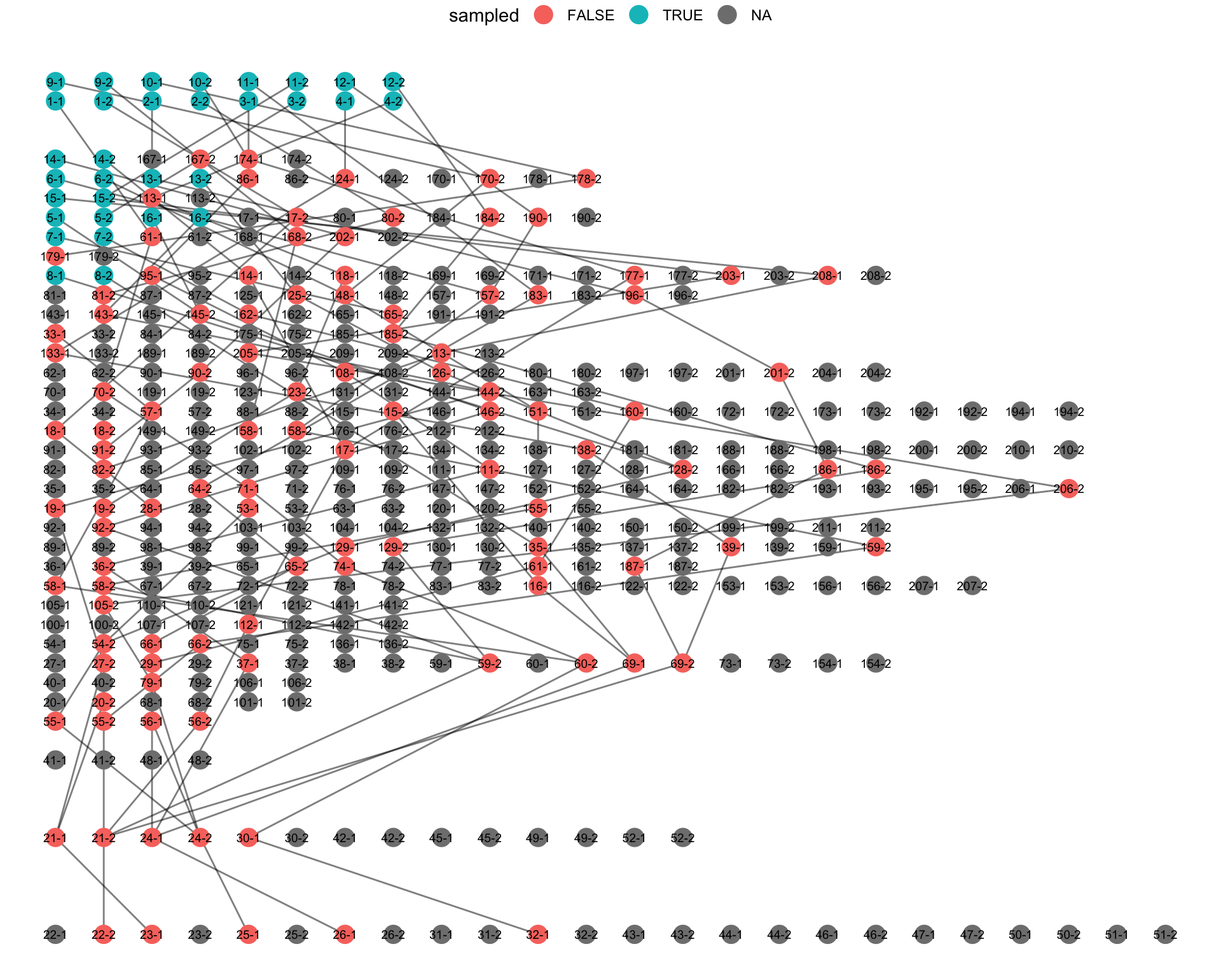
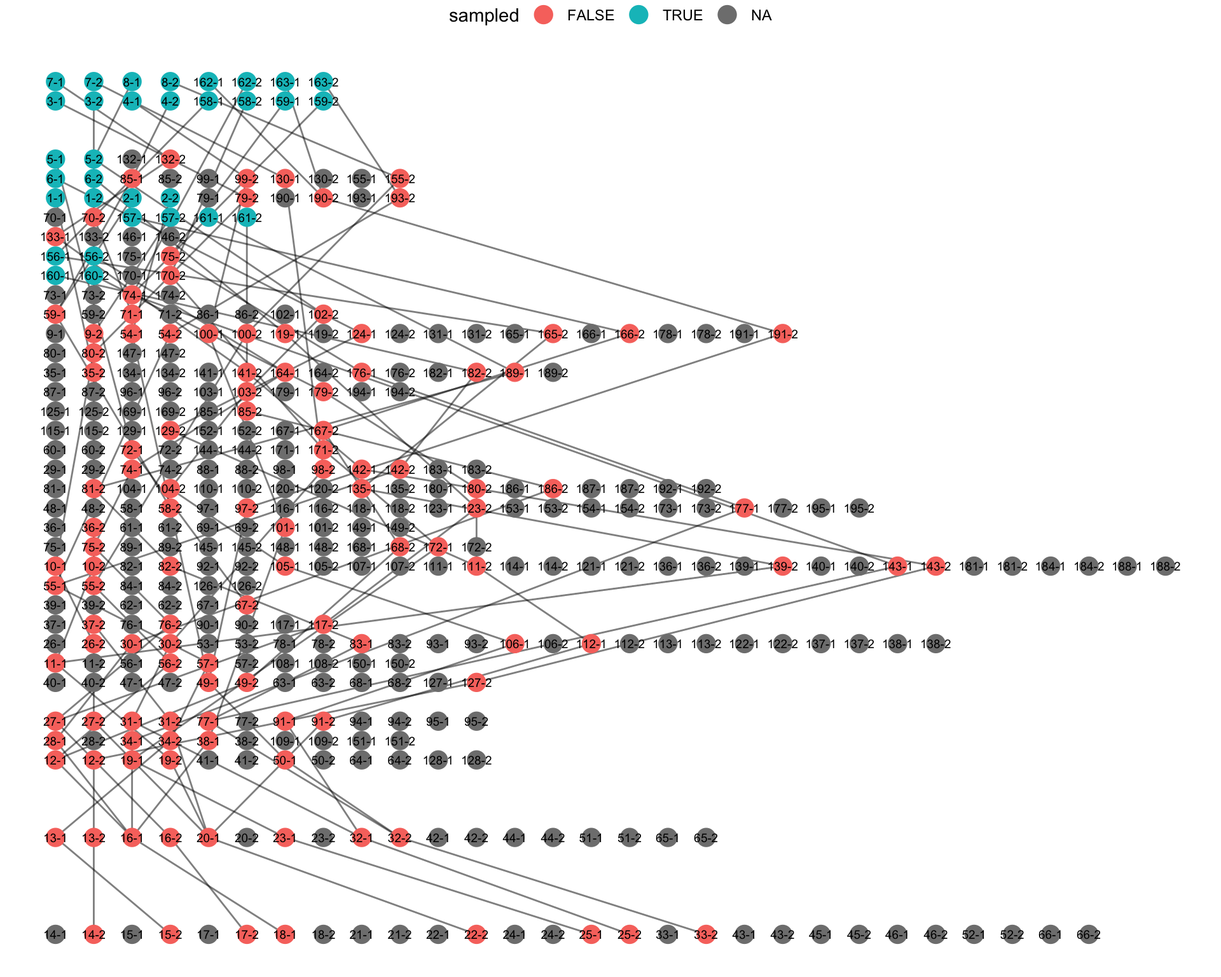
:bookmark: Bump version to v0.7.1 [ci skip]

Changed region(s): [[0.0312, 0.0625, 0.9688, 0.9688]]

diff --git a/docs/articles/kinship.html b/docs/articles/kinship.html
@@ -37,7 +37,7 @@
       </button>
       <span class="navbar-brand">
         <a class="navbar-link" href="../index.html">tekkamaki</a>
-        <span class="version label label-default" data-toggle="tooltip" data-placement="bottom" title="Released version">0.7.0</span>
+        <span class="version label label-default" data-toggle="tooltip" data-placement="bottom" title="Released version">0.7.1</span>
       </span>
     </div>
 
@@ -108,53 +108,53 @@
 <span id="cb1-5"><a href="#cb1-5"></a><span class="co">#&gt; # A tibble: 1 x 2</span></span>
 <span id="cb1-6"><a href="#cb1-6"></a><span class="co">#&gt;   sample_family        demography          </span></span>
 <span id="cb1-7"><a href="#cb1-7"></a><span class="co">#&gt;   &lt;list&gt;               &lt;list&gt;              </span></span>
-<span id="cb1-8"><a href="#cb1-8"></a><span class="co">#&gt; 1 &lt;tibble [7,479 × 6]&gt; &lt;tibble [4,483 × 5]&gt;</span></span>
+<span id="cb1-8"><a href="#cb1-8"></a><span class="co">#&gt; 1 &lt;tibble [7,485 × 6]&gt; &lt;tibble [4,601 × 5]&gt;</span></span>
 <span id="cb1-9"><a href="#cb1-9"></a>sample_family =<span class="st"> </span>result<span class="op">$</span>sample_family[[1L]] <span class="op">%&gt;%</span><span class="st"> </span><span class="kw"><a href="https://www.rdocumentation.org/packages/base/topics/print">print</a></span>()</span>
-<span id="cb1-10"><a href="#cb1-10"></a><span class="co">#&gt; # A tibble: 7,479 x 6</span></span>
+<span id="cb1-10"><a href="#cb1-10"></a><span class="co">#&gt; # A tibble: 7,485 x 6</span></span>
 <span id="cb1-11"><a href="#cb1-11"></a><span class="co">#&gt;       id father_id mother_id birth_year location capture_year</span></span>
 <span id="cb1-12"><a href="#cb1-12"></a><span class="co">#&gt;    &lt;int&gt;     &lt;int&gt;     &lt;int&gt;      &lt;int&gt;    &lt;int&gt;        &lt;int&gt;</span></span>
-<span id="cb1-13"><a href="#cb1-13"></a><span class="co">#&gt;  1   134         0         0         -4        0           NA</span></span>
-<span id="cb1-14"><a href="#cb1-14"></a><span class="co">#&gt;  2   135         0         0         -4        0           NA</span></span>
-<span id="cb1-15"><a href="#cb1-15"></a><span class="co">#&gt;  3   133       134       135          1        0           NA</span></span>
-<span id="cb1-16"><a href="#cb1-16"></a><span class="co">#&gt;  4   137         0         0         -4        0           NA</span></span>
-<span id="cb1-17"><a href="#cb1-17"></a><span class="co">#&gt;  5   138         0         0         -4        0           NA</span></span>
-<span id="cb1-18"><a href="#cb1-18"></a><span class="co">#&gt;  6   136       137       138          1        1           NA</span></span>
-<span id="cb1-19"><a href="#cb1-19"></a><span class="co">#&gt;  7   132       133       136          5        1           NA</span></span>
-<span id="cb1-20"><a href="#cb1-20"></a><span class="co">#&gt;  8   141         0         0         -4        0           NA</span></span>
-<span id="cb1-21"><a href="#cb1-21"></a><span class="co">#&gt;  9   142         0         0         -4        0           NA</span></span>
-<span id="cb1-22"><a href="#cb1-22"></a><span class="co">#&gt; 10   140       141       142          1        0           NA</span></span>
-<span id="cb1-23"><a href="#cb1-23"></a><span class="co">#&gt; # … with 7,469 more rows</span></span></code></pre></div>
+<span id="cb1-13"><a href="#cb1-13"></a><span class="co">#&gt;  1    74         0         0         -4       NA           NA</span></span>
+<span id="cb1-14"><a href="#cb1-14"></a><span class="co">#&gt;  2    75         0         0         -4       NA           NA</span></span>
+<span id="cb1-15"><a href="#cb1-15"></a><span class="co">#&gt;  3    73        74        75          1       NA           NA</span></span>
+<span id="cb1-16"><a href="#cb1-16"></a><span class="co">#&gt;  4    77         0         0         -4       NA           NA</span></span>
+<span id="cb1-17"><a href="#cb1-17"></a><span class="co">#&gt;  5    78         0         0         -4       NA           NA</span></span>
+<span id="cb1-18"><a href="#cb1-18"></a><span class="co">#&gt;  6    76        77        78          1       NA           NA</span></span>
+<span id="cb1-19"><a href="#cb1-19"></a><span class="co">#&gt;  7    72        73        76          8       NA           NA</span></span>
+<span id="cb1-20"><a href="#cb1-20"></a><span class="co">#&gt;  8    81         0         0         -4       NA           NA</span></span>
+<span id="cb1-21"><a href="#cb1-21"></a><span class="co">#&gt;  9    82         0         0         -4       NA           NA</span></span>
+<span id="cb1-22"><a href="#cb1-22"></a><span class="co">#&gt; 10    80        81        82          1       NA           NA</span></span>
+<span id="cb1-23"><a href="#cb1-23"></a><span class="co">#&gt; # … with 7,475 more rows</span></span></code></pre></div>
 <p>Extract kinship with degree≤4:</p>
 <div class="sourceCode" id="cb2"><pre class="sourceCode r"><code class="sourceCode r"><span id="cb2-1"><a href="#cb2-1"></a>kinship =<span class="st"> </span><span class="kw"><a href="../reference/kinship.html">find_kinship</a></span>(sample_family, 4L) <span class="op">%&gt;%</span><span class="st"> </span><span class="kw"><a href="https://www.rdocumentation.org/packages/base/topics/print">print</a></span>()</span>
-<span id="cb2-2"><a href="#cb2-2"></a><span class="co">#&gt; # A tibble: 194 x 5</span></span>
+<span id="cb2-2"><a href="#cb2-2"></a><span class="co">#&gt; # A tibble: 133 x 5</span></span>
 <span id="cb2-3"><a href="#cb2-3"></a><span class="co">#&gt;     from    to path   degree label</span></span>
 <span id="cb2-4"><a href="#cb2-4"></a><span class="co">#&gt;    &lt;int&gt; &lt;int&gt; &lt;chr&gt;   &lt;int&gt; &lt;fct&gt;</span></span>
-<span id="cb2-5"><a href="#cb2-5"></a><span class="co">#&gt;  1     1    26 10_1        2 HS   </span></span>
-<span id="cb2-6"><a href="#cb2-6"></a><span class="co">#&gt;  2     1    52 100_1       3 HUN  </span></span>
-<span id="cb2-7"><a href="#cb2-7"></a><span class="co">#&gt;  3     1    75 1000_1      4 HGUN </span></span>
-<span id="cb2-8"><a href="#cb2-8"></a><span class="co">#&gt;  4     1    82 100_1       3 HUN  </span></span>
-<span id="cb2-9"><a href="#cb2-9"></a><span class="co">#&gt;  5     1    87 10_1        2 HS   </span></span>
-<span id="cb2-10"><a href="#cb2-10"></a><span class="co">#&gt;  6     1   102 100_1       3 HUN  </span></span>
-<span id="cb2-11"><a href="#cb2-11"></a><span class="co">#&gt;  7     1   115 10_1        2 HS   </span></span>
-<span id="cb2-12"><a href="#cb2-12"></a><span class="co">#&gt;  8     2    65 1110_1      4 HGUN </span></span>
-<span id="cb2-13"><a href="#cb2-13"></a><span class="co">#&gt;  9     2   103 1110_1      4 HGUN </span></span>
-<span id="cb2-14"><a href="#cb2-14"></a><span class="co">#&gt; 10     3     5 1100_1      4 HC   </span></span>
-<span id="cb2-15"><a href="#cb2-15"></a><span class="co">#&gt; # … with 184 more rows</span></span>
+<span id="cb2-5"><a href="#cb2-5"></a><span class="co">#&gt;  1     1    33 110_1       3 HUN  </span></span>
+<span id="cb2-6"><a href="#cb2-6"></a><span class="co">#&gt;  2     1  7036 110_1       3 HUN  </span></span>
+<span id="cb2-7"><a href="#cb2-7"></a><span class="co">#&gt;  3     2    15 100_1       3 HUN  </span></span>
+<span id="cb2-8"><a href="#cb2-8"></a><span class="co">#&gt;  4     2  7017 100_1       3 HUN  </span></span>
+<span id="cb2-9"><a href="#cb2-9"></a><span class="co">#&gt;  5     4    53 100_1       3 HUN  </span></span>
+<span id="cb2-10"><a href="#cb2-10"></a><span class="co">#&gt;  6     4  7023 1000_1      4 HGUN </span></span>
+<span id="cb2-11"><a href="#cb2-11"></a><span class="co">#&gt;  7     5    11 1000_1      4 HGUN </span></span>
+<span id="cb2-12"><a href="#cb2-12"></a><span class="co">#&gt;  8     5  7000 10_1        2 HS   </span></span>
+<span id="cb2-13"><a href="#cb2-13"></a><span class="co">#&gt;  9     5  7038 1000_1      4 HGUN </span></span>
+<span id="cb2-14"><a href="#cb2-14"></a><span class="co">#&gt; 10     6  7035 1100_1      4 HC   </span></span>
+<span id="cb2-15"><a href="#cb2-15"></a><span class="co">#&gt; # … with 123 more rows</span></span>
 <span id="cb2-16"><a href="#cb2-16"></a>kinship <span class="op">%&gt;%</span><span class="st"> </span>dplyr<span class="op">::</span><span class="kw"><a href="https://dplyr.tidyverse.org/reference/tally.html">count</a></span>(label, <span class="dt">.drop =</span> <span class="ot">FALSE</span>)</span>
 <span id="cb2-17"><a href="#cb2-17"></a><span class="co">#&gt; # A tibble: 11 x 2</span></span>
 <span id="cb2-18"><a href="#cb2-18"></a><span class="co">#&gt;    label     n</span></span>
 <span id="cb2-19"><a href="#cb2-19"></a><span class="co">#&gt;    &lt;fct&gt; &lt;int&gt;</span></span>
-<span id="cb2-20"><a href="#cb2-20"></a><span class="co">#&gt;  1 PO        6</span></span>
-<span id="cb2-21"><a href="#cb2-21"></a><span class="co">#&gt;  2 HS       23</span></span>
+<span id="cb2-20"><a href="#cb2-20"></a><span class="co">#&gt;  1 PO        9</span></span>
+<span id="cb2-21"><a href="#cb2-21"></a><span class="co">#&gt;  2 HS       26</span></span>
 <span id="cb2-22"><a href="#cb2-22"></a><span class="co">#&gt;  3 FS        0</span></span>
-<span id="cb2-23"><a href="#cb2-23"></a><span class="co">#&gt;  4 GG        3</span></span>
+<span id="cb2-23"><a href="#cb2-23"></a><span class="co">#&gt;  4 GG        4</span></span>
 <span id="cb2-24"><a href="#cb2-24"></a><span class="co">#&gt;  5 GGG       0</span></span>
-<span id="cb2-25"><a href="#cb2-25"></a><span class="co">#&gt;  6 HUN      58</span></span>
+<span id="cb2-25"><a href="#cb2-25"></a><span class="co">#&gt;  6 HUN      50</span></span>
 <span id="cb2-26"><a href="#cb2-26"></a><span class="co">#&gt;  7 UN        0</span></span>
-<span id="cb2-27"><a href="#cb2-27"></a><span class="co">#&gt;  8 HC       75</span></span>
-<span id="cb2-28"><a href="#cb2-28"></a><span class="co">#&gt;  9 C         0</span></span>
-<span id="cb2-29"><a href="#cb2-29"></a><span class="co">#&gt; 10 HGUN     27</span></span>
-<span id="cb2-30"><a href="#cb2-30"></a><span class="co">#&gt; 11 GUN       2</span></span></code></pre></div>
+<span id="cb2-27"><a href="#cb2-27"></a><span class="co">#&gt;  8 HC       15</span></span>
+<span id="cb2-28"><a href="#cb2-28"></a><span class="co">#&gt;  9 C         1</span></span>
+<span id="cb2-29"><a href="#cb2-29"></a><span class="co">#&gt; 10 HGUN     28</span></span>
+<span id="cb2-30"><a href="#cb2-30"></a><span class="co">#&gt; 11 GUN       0</span></span></code></pre></div>
 <p>Bind other information to kinship data.frame:</p>
 <div class="sourceCode" id="cb3"><pre class="sourceCode r"><code class="sourceCode r"><span id="cb3-1"><a href="#cb3-1"></a>sampled =<span class="st"> </span>sample_family <span class="op">%&gt;%</span></span>
 <span id="cb3-2"><a href="#cb3-2"></a><span class="st">  </span>dplyr<span class="op">::</span><span class="kw"><a href="https://dplyr.tidyverse.org/reference/filter.html">filter</a></span>(<span class="op">!</span><span class="kw"><a href="https://www.rdocumentation.org/packages/base/topics/NA">is.na</a></span>(capture_year)) <span class="op">%&gt;%</span></span>
@@ -163,35 +163,35 @@
 <span id="cb3-5"><a href="#cb3-5"></a><span class="co">#&gt; # A tibble: 120 x 4</span></span>
 <span id="cb3-6"><a href="#cb3-6"></a><span class="co">#&gt;       id location capture_year   age</span></span>
 <span id="cb3-7"><a href="#cb3-7"></a><span class="co">#&gt;    &lt;int&gt;    &lt;int&gt;        &lt;int&gt; &lt;int&gt;</span></span>
-<span id="cb3-8"><a href="#cb3-8"></a><span class="co">#&gt;  1     1        1           98     0</span></span>
-<span id="cb3-9"><a href="#cb3-9"></a><span class="co">#&gt;  2     2        0           98     0</span></span>
-<span id="cb3-10"><a href="#cb3-10"></a><span class="co">#&gt;  3     3        0           98     0</span></span>
-<span id="cb3-11"><a href="#cb3-11"></a><span class="co">#&gt;  4     4        1           98     0</span></span>
-<span id="cb3-12"><a href="#cb3-12"></a><span class="co">#&gt;  5     5        1           98     0</span></span>
-<span id="cb3-13"><a href="#cb3-13"></a><span class="co">#&gt;  6     6        0           98     0</span></span>
-<span id="cb3-14"><a href="#cb3-14"></a><span class="co">#&gt;  7     7        1           98     0</span></span>
-<span id="cb3-15"><a href="#cb3-15"></a><span class="co">#&gt;  8     8        0           98     0</span></span>
-<span id="cb3-16"><a href="#cb3-16"></a><span class="co">#&gt;  9     9        0           98     0</span></span>
-<span id="cb3-17"><a href="#cb3-17"></a><span class="co">#&gt; 10    10        1           98     0</span></span>
+<span id="cb3-8"><a href="#cb3-8"></a><span class="co">#&gt;  1     1        0           98     5</span></span>
+<span id="cb3-9"><a href="#cb3-9"></a><span class="co">#&gt;  2     2        0           98     5</span></span>
+<span id="cb3-10"><a href="#cb3-10"></a><span class="co">#&gt;  3     3        0           98     5</span></span>
+<span id="cb3-11"><a href="#cb3-11"></a><span class="co">#&gt;  4     4        0           98     4</span></span>
+<span id="cb3-12"><a href="#cb3-12"></a><span class="co">#&gt;  5     5        0           98     4</span></span>
+<span id="cb3-13"><a href="#cb3-13"></a><span class="co">#&gt;  6     6        0           98     4</span></span>
+<span id="cb3-14"><a href="#cb3-14"></a><span class="co">#&gt;  7     7        0           98     4</span></span>
+<span id="cb3-15"><a href="#cb3-15"></a><span class="co">#&gt;  8     8        0           98     5</span></span>
+<span id="cb3-16"><a href="#cb3-16"></a><span class="co">#&gt;  9     9        0           98     4</span></span>
+<span id="cb3-17"><a href="#cb3-17"></a><span class="co">#&gt; 10    10        0           98     5</span></span>
 <span id="cb3-18"><a href="#cb3-18"></a><span class="co">#&gt; # … with 110 more rows</span></span>
 <span id="cb3-19"><a href="#cb3-19"></a></span>
 <span id="cb3-20"><a href="#cb3-20"></a>kinship <span class="op">%&gt;%</span></span>
 <span id="cb3-21"><a href="#cb3-21"></a><span class="st">  </span>dplyr<span class="op">::</span><span class="kw"><a href="https://dplyr.tidyverse.org/reference/join.html">left_join</a></span>(sampled, <span class="dt">by =</span> <span class="kw"><a href="https://www.rdocumentation.org/packages/base/topics/c">c</a></span>(<span class="dt">from =</span> <span class="st">"id"</span>)) <span class="op">%&gt;%</span></span>
 <span id="cb3-22"><a href="#cb3-22"></a><span class="st">  </span>dplyr<span class="op">::</span><span class="kw"><a href="https://dplyr.tidyverse.org/reference/join.html">left_join</a></span>(sampled, <span class="dt">by =</span> <span class="kw"><a href="https://www.rdocumentation.org/packages/base/topics/c">c</a></span>(<span class="dt">to =</span> <span class="st">"id"</span>), <span class="dt">suffix =</span> <span class="kw"><a href="https://www.rdocumentation.org/packages/base/topics/c">c</a></span>(<span class="st">"_from"</span>, <span class="st">"_to"</span>))</span>
-<span id="cb3-23"><a href="#cb3-23"></a><span class="co">#&gt; # A tibble: 194 x 11</span></span>
+<span id="cb3-23"><a href="#cb3-23"></a><span class="co">#&gt; # A tibble: 133 x 11</span></span>
 <span id="cb3-24"><a href="#cb3-24"></a><span class="co">#&gt;     from    to path  degree label location_from capture_year_fr… age_from</span></span>
 <span id="cb3-25"><a href="#cb3-25"></a><span class="co">#&gt;    &lt;int&gt; &lt;int&gt; &lt;chr&gt;  &lt;int&gt; &lt;fct&gt;         &lt;int&gt;            &lt;int&gt;    &lt;int&gt;</span></span>
-<span id="cb3-26"><a href="#cb3-26"></a><span class="co">#&gt;  1     1    26 10_1       2 HS                1               98        0</span></span>
-<span id="cb3-27"><a href="#cb3-27"></a><span class="co">#&gt;  2     1    52 100_1      3 HUN               1               98        0</span></span>
-<span id="cb3-28"><a href="#cb3-28"></a><span class="co">#&gt;  3     1    75 1000…      4 HGUN              1               98        0</span></span>
-<span id="cb3-29"><a href="#cb3-29"></a><span class="co">#&gt;  4     1    82 100_1      3 HUN               1               98        0</span></span>
-<span id="cb3-30"><a href="#cb3-30"></a><span class="co">#&gt;  5     1    87 10_1       2 HS                1               98        0</span></span>
-<span id="cb3-31"><a href="#cb3-31"></a><span class="co">#&gt;  6     1   102 100_1      3 HUN               1               98        0</span></span>
-<span id="cb3-32"><a href="#cb3-32"></a><span class="co">#&gt;  7     1   115 10_1       2 HS                1               98        0</span></span>
-<span id="cb3-33"><a href="#cb3-33"></a><span class="co">#&gt;  8     2    65 1110…      4 HGUN              0               98        0</span></span>
-<span id="cb3-34"><a href="#cb3-34"></a><span class="co">#&gt;  9     2   103 1110…      4 HGUN              0               98        0</span></span>
-<span id="cb3-35"><a href="#cb3-35"></a><span class="co">#&gt; 10     3     5 1100…      4 HC                0               98        0</span></span>
-<span id="cb3-36"><a href="#cb3-36"></a><span class="co">#&gt; # … with 184 more rows, and 3 more variables: location_to &lt;int&gt;,</span></span>
+<span id="cb3-26"><a href="#cb3-26"></a><span class="co">#&gt;  1     1    33 110_1      3 HUN               0               98        5</span></span>
+<span id="cb3-27"><a href="#cb3-27"></a><span class="co">#&gt;  2     1  7036 110_1      3 HUN               0               98        5</span></span>
+<span id="cb3-28"><a href="#cb3-28"></a><span class="co">#&gt;  3     2    15 100_1      3 HUN               0               98        5</span></span>
+<span id="cb3-29"><a href="#cb3-29"></a><span class="co">#&gt;  4     2  7017 100_1      3 HUN               0               98        5</span></span>
+<span id="cb3-30"><a href="#cb3-30"></a><span class="co">#&gt;  5     4    53 100_1      3 HUN               0               98        4</span></span>
+<span id="cb3-31"><a href="#cb3-31"></a><span class="co">#&gt;  6     4  7023 1000…      4 HGUN              0               98        4</span></span>
+<span id="cb3-32"><a href="#cb3-32"></a><span class="co">#&gt;  7     5    11 1000…      4 HGUN              0               98        4</span></span>
+<span id="cb3-33"><a href="#cb3-33"></a><span class="co">#&gt;  8     5  7000 10_1       2 HS                0               98        4</span></span>
+<span id="cb3-34"><a href="#cb3-34"></a><span class="co">#&gt;  9     5  7038 1000…      4 HGUN              0               98        4</span></span>
+<span id="cb3-35"><a href="#cb3-35"></a><span class="co">#&gt; 10     6  7035 1100…      4 HC                0               98        4</span></span>
+<span id="cb3-36"><a href="#cb3-36"></a><span class="co">#&gt; # … with 123 more rows, and 3 more variables: location_to &lt;int&gt;,</span></span>
 <span id="cb3-37"><a href="#cb3-37"></a><span class="co">#&gt; #   capture_year_to &lt;int&gt;, age_to &lt;int&gt;</span></span></code></pre></div>
   </div>
 

diff --git a/docs/articles/tekkamaki.html b/docs/articles/tekkamaki.html
@@ -37,7 +37,7 @@
       </button>
       <span class="navbar-brand">
         <a class="navbar-link" href="../index.html">tekkamaki</a>
-        <span class="version label label-default" data-toggle="tooltip" data-placement="bottom" title="Released version">0.7.0</span>
+        <span class="version label label-default" data-toggle="tooltip" data-placement="bottom" title="Released version">0.7.1</span>
       </span>
     </div>
 
@@ -109,38 +109,38 @@
 <span id="cb1-6"><a href="#cb1-6"></a><span class="co">#&gt; # A tibble: 1 x 2</span></span>
 <span id="cb1-7"><a href="#cb1-7"></a><span class="co">#&gt;   sample_family        demography          </span></span>
 <span id="cb1-8"><a href="#cb1-8"></a><span class="co">#&gt;   &lt;list&gt;               &lt;list&gt;              </span></span>
-<span id="cb1-9"><a href="#cb1-9"></a><span class="co">#&gt; 1 &lt;tibble [7,479 × 6]&gt; &lt;tibble [4,483 × 5]&gt;</span></span></code></pre></div>
+<span id="cb1-9"><a href="#cb1-9"></a><span class="co">#&gt; 1 &lt;tibble [7,485 × 6]&gt; &lt;tibble [4,601 × 5]&gt;</span></span></code></pre></div>
 <p>A result is a nested tibble with two columns: <code>sample_family</code> and <code>demography</code>:</p>
 <div class="sourceCode" id="cb2"><pre class="sourceCode r"><code class="sourceCode r"><span id="cb2-1"><a href="#cb2-1"></a>sample_family =<span class="st"> </span>result<span class="op">$</span>sample_family[[1L]] <span class="op">%&gt;%</span><span class="st"> </span><span class="kw"><a href="https://www.rdocumentation.org/packages/base/topics/print">print</a></span>()</span>
-<span id="cb2-2"><a href="#cb2-2"></a><span class="co">#&gt; # A tibble: 7,479 x 6</span></span>
+<span id="cb2-2"><a href="#cb2-2"></a><span class="co">#&gt; # A tibble: 7,485 x 6</span></span>
 <span id="cb2-3"><a href="#cb2-3"></a><span class="co">#&gt;       id father_id mother_id birth_year location capture_year</span></span>
 <span id="cb2-4"><a href="#cb2-4"></a><span class="co">#&gt;    &lt;int&gt;     &lt;int&gt;     &lt;int&gt;      &lt;int&gt;    &lt;int&gt;        &lt;int&gt;</span></span>
-<span id="cb2-5"><a href="#cb2-5"></a><span class="co">#&gt;  1   134         0         0         -4        0           NA</span></span>
-<span id="cb2-6"><a href="#cb2-6"></a><span class="co">#&gt;  2   135         0         0         -4        0           NA</span></span>
-<span id="cb2-7"><a href="#cb2-7"></a><span class="co">#&gt;  3   133       134       135          1        0           NA</span></span>
-<span id="cb2-8"><a href="#cb2-8"></a><span class="co">#&gt;  4   137         0         0         -4        0           NA</span></span>
-<span id="cb2-9"><a href="#cb2-9"></a><span class="co">#&gt;  5   138         0         0         -4        0           NA</span></span>
-<span id="cb2-10"><a href="#cb2-10"></a><span class="co">#&gt;  6   136       137       138          1        1           NA</span></span>
-<span id="cb2-11"><a href="#cb2-11"></a><span class="co">#&gt;  7   132       133       136          5        1           NA</span></span>
-<span id="cb2-12"><a href="#cb2-12"></a><span class="co">#&gt;  8   141         0         0         -4        0           NA</span></span>
-<span id="cb2-13"><a href="#cb2-13"></a><span class="co">#&gt;  9   142         0         0         -4        0           NA</span></span>
-<span id="cb2-14"><a href="#cb2-14"></a><span class="co">#&gt; 10   140       141       142          1        0           NA</span></span>
-<span id="cb2-15"><a href="#cb2-15"></a><span class="co">#&gt; # … with 7,469 more rows</span></span>
+<span id="cb2-5"><a href="#cb2-5"></a><span class="co">#&gt;  1    74         0         0         -4       NA           NA</span></span>
+<span id="cb2-6"><a href="#cb2-6"></a><span class="co">#&gt;  2    75         0         0         -4       NA           NA</span></span>
+<span id="cb2-7"><a href="#cb2-7"></a><span class="co">#&gt;  3    73        74        75          1       NA           NA</span></span>
+<span id="cb2-8"><a href="#cb2-8"></a><span class="co">#&gt;  4    77         0         0         -4       NA           NA</span></span>
+<span id="cb2-9"><a href="#cb2-9"></a><span class="co">#&gt;  5    78         0         0         -4       NA           NA</span></span>
+<span id="cb2-10"><a href="#cb2-10"></a><span class="co">#&gt;  6    76        77        78          1       NA           NA</span></span>
+<span id="cb2-11"><a href="#cb2-11"></a><span class="co">#&gt;  7    72        73        76          8       NA           NA</span></span>
+<span id="cb2-12"><a href="#cb2-12"></a><span class="co">#&gt;  8    81         0         0         -4       NA           NA</span></span>
+<span id="cb2-13"><a href="#cb2-13"></a><span class="co">#&gt;  9    82         0         0         -4       NA           NA</span></span>
+<span id="cb2-14"><a href="#cb2-14"></a><span class="co">#&gt; 10    80        81        82          1       NA           NA</span></span>
+<span id="cb2-15"><a href="#cb2-15"></a><span class="co">#&gt; # … with 7,475 more rows</span></span>
 <span id="cb2-16"><a href="#cb2-16"></a>demography =<span class="st"> </span>result<span class="op">$</span>demography[[1L]] <span class="op">%&gt;%</span><span class="st"> </span><span class="kw"><a href="https://www.rdocumentation.org/packages/base/topics/print">print</a></span>()</span>
-<span id="cb2-17"><a href="#cb2-17"></a><span class="co">#&gt; # A tibble: 4,483 x 5</span></span>
+<span id="cb2-17"><a href="#cb2-17"></a><span class="co">#&gt; # A tibble: 4,601 x 5</span></span>
 <span id="cb2-18"><a href="#cb2-18"></a><span class="co">#&gt;     year season location   age count</span></span>
 <span id="cb2-19"><a href="#cb2-19"></a><span class="co">#&gt;    &lt;dbl&gt;  &lt;dbl&gt;    &lt;dbl&gt; &lt;dbl&gt; &lt;dbl&gt;</span></span>
 <span id="cb2-20"><a href="#cb2-20"></a><span class="co">#&gt;  1     0      3        0     4   200</span></span>
-<span id="cb2-21"><a href="#cb2-21"></a><span class="co">#&gt;  2     1      0        0     0  8466</span></span>
-<span id="cb2-22"><a href="#cb2-22"></a><span class="co">#&gt;  3     1      3        0     0  1491</span></span>
-<span id="cb2-23"><a href="#cb2-23"></a><span class="co">#&gt;  4     1      3        2     0  1491</span></span>
-<span id="cb2-24"><a href="#cb2-24"></a><span class="co">#&gt;  5     2      0        2     1  1491</span></span>
-<span id="cb2-25"><a href="#cb2-25"></a><span class="co">#&gt;  6     2      3        2     1   242</span></span>
-<span id="cb2-26"><a href="#cb2-26"></a><span class="co">#&gt;  7     2      3        3     1   275</span></span>
-<span id="cb2-27"><a href="#cb2-27"></a><span class="co">#&gt;  8     3      0        2     2   242</span></span>
-<span id="cb2-28"><a href="#cb2-28"></a><span class="co">#&gt;  9     3      0        3     2   275</span></span>
-<span id="cb2-29"><a href="#cb2-29"></a><span class="co">#&gt; 10     3      3        2     2   174</span></span>
-<span id="cb2-30"><a href="#cb2-30"></a><span class="co">#&gt; # … with 4,473 more rows</span></span></code></pre></div>
+<span id="cb2-21"><a href="#cb2-21"></a><span class="co">#&gt;  2     1      0        0     0 13457</span></span>
+<span id="cb2-22"><a href="#cb2-22"></a><span class="co">#&gt;  3     1      3        0     0  1543</span></span>
+<span id="cb2-23"><a href="#cb2-23"></a><span class="co">#&gt;  4     1      3        2     0  1543</span></span>
+<span id="cb2-24"><a href="#cb2-24"></a><span class="co">#&gt;  5     2      0        2     1  1543</span></span>
+<span id="cb2-25"><a href="#cb2-25"></a><span class="co">#&gt;  6     2      3        2     1   248</span></span>
+<span id="cb2-26"><a href="#cb2-26"></a><span class="co">#&gt;  7     2      3        3     1   253</span></span>
+<span id="cb2-27"><a href="#cb2-27"></a><span class="co">#&gt;  8     3      0        2     2   248</span></span>
+<span id="cb2-28"><a href="#cb2-28"></a><span class="co">#&gt;  9     3      0        3     2   253</span></span>
+<span id="cb2-29"><a href="#cb2-29"></a><span class="co">#&gt; 10     3      3        2     2   175</span></span>
+<span id="cb2-30"><a href="#cb2-30"></a><span class="co">#&gt; # … with 4,591 more rows</span></span></code></pre></div>
 <p>Here is an example of visualizing demography:</p>
 <div class="sourceCode" id="cb3"><pre class="sourceCode r"><code class="sourceCode r"><span id="cb3-1"><a href="#cb3-1"></a><span class="kw"><a href="https://www.rdocumentation.org/packages/base/topics/library">library</a></span>(ggplot2)</span>
 <span id="cb3-2"><a href="#cb3-2"></a>df =<span class="st"> </span>demography <span class="op">%&gt;%</span></span>
@@ -154,19 +154,6 @@
 <span id="cb3-10"><a href="#cb3-10"></a><span class="st">  </span><span class="kw"><a href="https://ggplot2.tidyverse.org/reference/ggtheme.html">theme_bw</a></span>() <span class="op">+</span></span>
 <span id="cb3-11"><a href="#cb3-11"></a><span class="st">  </span><span class="kw"><a href="https://ggplot2.tidyverse.org/reference/theme.html">theme</a></span>(<span class="dt">legend.position =</span> <span class="st">"top"</span>)</span></code></pre></div>
 <p><img src="tekkamaki_files/figure-html/demography-1.png" width="700"></p>
-<div class="sourceCode" id="cb4"><pre class="sourceCode r"><code class="sourceCode r"><span id="cb4-1"><a href="#cb4-1"></a><span class="kw">load_all</span>(<span class="dt">compile =</span> <span class="ot">TRUE</span>)</span>
-<span id="cb4-2"><a href="#cb4-2"></a>result =<span class="st"> </span><span class="kw"><a href="../reference/tekka.html">tekka</a></span>(<span class="st">"-y200"</span>) <span class="op">%&gt;%</span><span class="st"> </span><span class="kw"><a href="https://www.rdocumentation.org/packages/base/topics/print">print</a></span>()</span>
-<span id="cb4-3"><a href="#cb4-3"></a>demography =<span class="st"> </span>result<span class="op">$</span>demography[[1L]] <span class="op">%&gt;%</span><span class="st"> </span><span class="kw"><a href="https://www.rdocumentation.org/packages/base/topics/print">print</a></span>()</span>
-<span id="cb4-4"><a href="#cb4-4"></a>df =<span class="st"> </span>demography <span class="op">%&gt;%</span></span>
-<span id="cb4-5"><a href="#cb4-5"></a><span class="st">  </span>dplyr<span class="op">::</span><span class="kw"><a href="https://dplyr.tidyverse.org/reference/mutate.html">mutate</a></span>(<span class="dt">time =</span> year <span class="op">+</span><span class="st"> </span><span class="fl">0.25</span> <span class="op">*</span><span class="st"> </span>season) <span class="op">%&gt;%</span></span>
-<span id="cb4-6"><a href="#cb4-6"></a><span class="st">  </span>dplyr<span class="op">::</span><span class="kw"><a href="https://dplyr.tidyverse.org/reference/group_by.html">group_by</a></span>(time, location, <span class="dt">age =</span> <span class="kw"><a href="https://www.rdocumentation.org/packages/base/topics/ifelse">ifelse</a></span>(age <span class="op">&gt;=</span><span class="st"> </span><span class="dv">4</span>, <span class="st">"adult"</span>, <span class="st">"juvenile"</span>)) <span class="op">%&gt;%</span></span>
-<span id="cb4-7"><a href="#cb4-7"></a><span class="st">  </span>dplyr<span class="op">::</span><span class="kw"><a href="https://dplyr.tidyverse.org/reference/summarise.html">summarise</a></span>(<span class="dt">count =</span> <span class="kw"><a href="https://www.rdocumentation.org/packages/base/topics/sum">sum</a></span>(count))</span>
-<span id="cb4-8"><a href="#cb4-8"></a></span>
-<span id="cb4-9"><a href="#cb4-9"></a><span class="kw"><a href="https://ggplot2.tidyverse.org/reference/ggplot.html">ggplot</a></span>(df, <span class="kw"><a href="https://ggplot2.tidyverse.org/reference/aes.html">aes</a></span>(time, count)) <span class="op">+</span></span>
-<span id="cb4-10"><a href="#cb4-10"></a><span class="st">  </span><span class="kw"><a href="https://ggplot2.tidyverse.org/reference/geom_path.html">geom_path</a></span>(<span class="kw"><a href="https://ggplot2.tidyverse.org/reference/aes.html">aes</a></span>(<span class="dt">colour =</span> age, <span class="dt">group =</span> age)) <span class="op">+</span></span>
-<span id="cb4-11"><a href="#cb4-11"></a><span class="st">  </span><span class="kw"><a href="https://ggplot2.tidyverse.org/reference/facet_grid.html">facet_grid</a></span>(location <span class="op">~</span><span class="st"> </span>.) <span class="op">+</span></span>
-<span id="cb4-12"><a href="#cb4-12"></a><span class="st">  </span><span class="kw"><a href="https://ggplot2.tidyverse.org/reference/ggtheme.html">theme_bw</a></span>() <span class="op">+</span></span>
-<span id="cb4-13"><a href="#cb4-13"></a><span class="st">  </span><span class="kw"><a href="https://ggplot2.tidyverse.org/reference/theme.html">theme</a></span>(<span class="dt">legend.position =</span> <span class="st">"top"</span>)</span></code></pre></div>
   </div>
 
   <div class="col-md-3 hidden-xs hidden-sm" id="sidebar">

diff --git a/docs/articles/snp.html b/docs/articles/snp.html
@@ -37,7 +37,7 @@
       </button>
       <span class="navbar-brand">
         <a class="navbar-link" href="../index.html">tekkamaki</a>
-        <span class="version label label-default" data-toggle="tooltip" data-placement="bottom" title="Released version">0.7.0</span>
+        <span class="version label label-default" data-toggle="tooltip" data-placement="bottom" title="Released version">0.7.1</span>
       </span>
     </div>
 
@@ -112,12 +112,12 @@
 <span id="cb2-4"><a href="#cb2-4"></a><span class="co">#&gt;       [,1] [,2] [,3]</span></span>
 <span id="cb2-5"><a href="#cb2-5"></a><span class="co">#&gt;  [1,]    0    0    0</span></span>
 <span id="cb2-6"><a href="#cb2-6"></a><span class="co">#&gt;  [2,]    0    0    0</span></span>
-<span id="cb2-7"><a href="#cb2-7"></a><span class="co">#&gt;  [3,]    0    0    0</span></span>
+<span id="cb2-7"><a href="#cb2-7"></a><span class="co">#&gt;  [3,]    0    1    0</span></span>
 <span id="cb2-8"><a href="#cb2-8"></a><span class="co">#&gt;  [4,]    0    0    0</span></span>
-<span id="cb2-9"><a href="#cb2-9"></a><span class="co">#&gt;  [5,]    0    0    1</span></span>
-<span id="cb2-10"><a href="#cb2-10"></a><span class="co">#&gt;  [6,]    0    0    0</span></span>
+<span id="cb2-9"><a href="#cb2-9"></a><span class="co">#&gt;  [5,]    0    0    0</span></span>
+<span id="cb2-10"><a href="#cb2-10"></a><span class="co">#&gt;  [6,]    0    1    0</span></span>
 <span id="cb2-11"><a href="#cb2-11"></a><span class="co">#&gt;  [7,]    0    0    0</span></span>
-<span id="cb2-12"><a href="#cb2-12"></a><span class="co">#&gt;  [8,]    0    0    0</span></span>
+<span id="cb2-12"><a href="#cb2-12"></a><span class="co">#&gt;  [8,]    0    1    0</span></span>
 <span id="cb2-13"><a href="#cb2-13"></a><span class="co">#&gt;  [9,]    0    0    0</span></span>
 <span id="cb2-14"><a href="#cb2-14"></a><span class="co">#&gt; [10,]    0    0    0</span></span>
 <span id="cb2-15"><a href="#cb2-15"></a><span class="co">#&gt; [11,]    0    0    0</span></span>
@@ -127,21 +127,21 @@
 <span id="cb2-19"><a href="#cb2-19"></a><span class="co">#&gt; [15,]    0    0    0</span></span>
 <span id="cb2-20"><a href="#cb2-20"></a><span class="co">#&gt; [16,]    0    0    0</span></span>
 <span id="cb2-21"><a href="#cb2-21"></a><span class="co">#&gt; [17,]    0    1    0</span></span>
-<span id="cb2-22"><a href="#cb2-22"></a><span class="co">#&gt; [18,]    0    0    0</span></span>
+<span id="cb2-22"><a href="#cb2-22"></a><span class="co">#&gt; [18,]    0    1    0</span></span>
 <span id="cb2-23"><a href="#cb2-23"></a><span class="co">#&gt; [19,]    0    0    0</span></span>
-<span id="cb2-24"><a href="#cb2-24"></a><span class="co">#&gt; [20,]    1    0    0</span></span>
-<span id="cb2-25"><a href="#cb2-25"></a><span class="co">#&gt; [21,]    0    0    0</span></span>
-<span id="cb2-26"><a href="#cb2-26"></a><span class="co">#&gt; [22,]    0    0    0</span></span>
-<span id="cb2-27"><a href="#cb2-27"></a><span class="co">#&gt; [23,]    0    0    0</span></span>
-<span id="cb2-28"><a href="#cb2-28"></a><span class="co">#&gt; [24,]    0    0    0</span></span>
-<span id="cb2-29"><a href="#cb2-29"></a><span class="co">#&gt; [25,]    0    0    0</span></span>
+<span id="cb2-24"><a href="#cb2-24"></a><span class="co">#&gt; [20,]    0    0    0</span></span>
+<span id="cb2-25"><a href="#cb2-25"></a><span class="co">#&gt; [21,]    0    1    0</span></span>
+<span id="cb2-26"><a href="#cb2-26"></a><span class="co">#&gt; [22,]    0    0    1</span></span>
+<span id="cb2-27"><a href="#cb2-27"></a><span class="co">#&gt; [23,]    0    1    0</span></span>
+<span id="cb2-28"><a href="#cb2-28"></a><span class="co">#&gt; [24,]    0    1    0</span></span>
+<span id="cb2-29"><a href="#cb2-29"></a><span class="co">#&gt; [25,]    0    1    0</span></span>
 <span id="cb2-30"><a href="#cb2-30"></a><span class="co">#&gt; [26,]    0    0    0</span></span>
 <span id="cb2-31"><a href="#cb2-31"></a><span class="co">#&gt; [27,]    0    0    0</span></span>
 <span id="cb2-32"><a href="#cb2-32"></a><span class="co">#&gt; [28,]    0    0    0</span></span>
 <span id="cb2-33"><a href="#cb2-33"></a><span class="co">#&gt; [29,]    0    0    0</span></span>
 <span id="cb2-34"><a href="#cb2-34"></a><span class="co">#&gt; [30,]    0    0    0</span></span>
 <span id="cb2-35"><a href="#cb2-35"></a><span class="co">#&gt; [31,]    0    0    0</span></span>
-<span id="cb2-36"><a href="#cb2-36"></a><span class="co">#&gt; [32,]    0    0    0</span></span></code></pre></div>
+<span id="cb2-36"><a href="#cb2-36"></a><span class="co">#&gt; [32,]    1    0    0</span></span></code></pre></div>
 </div>
 <div id="visualize-a-generated-gene-genealogy" class="section level2">
 <h2 class="hasAnchor">

diff --git a/docs/reference/reexports.html b/docs/reference/reexports.html
@@ -78,7 +78,7 @@ below to see their documentation.
       </button>
       <span class="navbar-brand">
         <a class="navbar-link" href="../index.html">tekkamaki</a>
-        <span class="version label label-default" data-toggle="tooltip" data-placement="bottom" title="Released version">0.7.0</span>
+        <span class="version label label-default" data-toggle="tooltip" data-placement="bottom" title="Released version">0.7.1</span>
       </span>
     </div>
 

diff --git a/docs/articles/index.html b/docs/articles/index.html
@@ -70,7 +70,7 @@
       </button>
       <span class="navbar-brand">
         <a class="navbar-link" href="../index.html">tekkamaki</a>
-        <span class="version label label-default" data-toggle="tooltip" data-placement="bottom" title="Released version">0.7.0</span>
+        <span class="version label label-default" data-toggle="tooltip" data-placement="bottom" title="Released version">0.7.1</span>
       </span>
     </div>
 

diff --git a/docs/reference/graph.html b/docs/reference/graph.html
@@ -72,7 +72,7 @@
       </button>
       <span class="navbar-brand">
         <a class="navbar-link" href="../index.html">tekkamaki</a>
-        <span class="version label label-default" data-toggle="tooltip" data-placement="bottom" title="Released version">0.7.0</span>
+        <span class="version label label-default" data-toggle="tooltip" data-placement="bottom" title="Released version">0.7.1</span>
       </span>
     </div>
 

diff --git a/docs/reference/hsp.html b/docs/reference/hsp.html
@@ -72,7 +72,7 @@
       </button>
       <span class="navbar-brand">
         <a class="navbar-link" href="../index.html">tekkamaki</a>
-        <span class="version label label-default" data-toggle="tooltip" data-placement="bottom" title="Released version">0.7.0</span>
+        <span class="version label label-default" data-toggle="tooltip" data-placement="bottom" title="Released version">0.7.1</span>
       </span>
     </div>
 

diff --git a/docs/reference/index.html b/docs/reference/index.html
@@ -70,7 +70,7 @@
       </button>
       <span class="navbar-brand">
         <a class="navbar-link" href="../index.html">tekkamaki</a>
-        <span class="version label label-default" data-toggle="tooltip" data-placement="bottom" title="Released version">0.7.0</span>
+        <span class="version label label-default" data-toggle="tooltip" data-placement="bottom" title="Released version">0.7.1</span>
       </span>
     </div>
 

diff --git a/docs/reference/kinship.html b/docs/reference/kinship.html
@@ -72,7 +72,7 @@
       </button>
       <span class="navbar-brand">
         <a class="navbar-link" href="../index.html">tekkamaki</a>
-        <span class="version label label-default" data-toggle="tooltip" data-placement="bottom" title="Released version">0.7.0</span>
+        <span class="version label label-default" data-toggle="tooltip" data-placement="bottom" title="Released version">0.7.1</span>
       </span>
     </div>
 

diff --git a/docs/reference/nbinom.html b/docs/reference/nbinom.html
@@ -72,7 +72,7 @@
       </button>
       <span class="navbar-brand">
         <a class="navbar-link" href="../index.html">tekkamaki</a>
-        <span class="version label label-default" data-toggle="tooltip" data-placement="bottom" title="Released version">0.7.0</span>
+        <span class="version label label-default" data-toggle="tooltip" data-placement="bottom" title="Released version">0.7.1</span>
       </span>
     </div>
 

diff --git a/docs/reference/parameter.html b/docs/reference/parameter.html
@@ -72,7 +72,7 @@
       </button>
       <span class="navbar-brand">
         <a class="navbar-link" href="../index.html">tekkamaki</a>
-        <span class="version label label-default" data-toggle="tooltip" data-placement="bottom" title="Released version">0.7.0</span>
+        <span class="version label label-default" data-toggle="tooltip" data-placement="bottom" title="Released version">0.7.1</span>
       </span>
     </div>
 

diff --git a/docs/reference/plot.html b/docs/reference/plot.html
@@ -72,7 +72,7 @@
       </button>
       <span class="navbar-brand">
         <a class="navbar-link" href="../index.html">tekkamaki</a>
-        <span class="version label label-default" data-toggle="tooltip" data-placement="bottom" title="Released version">0.7.0</span>
+        <span class="version label label-default" data-toggle="tooltip" data-placement="bottom" title="Released version">0.7.1</span>
       </span>
     </div>
 
